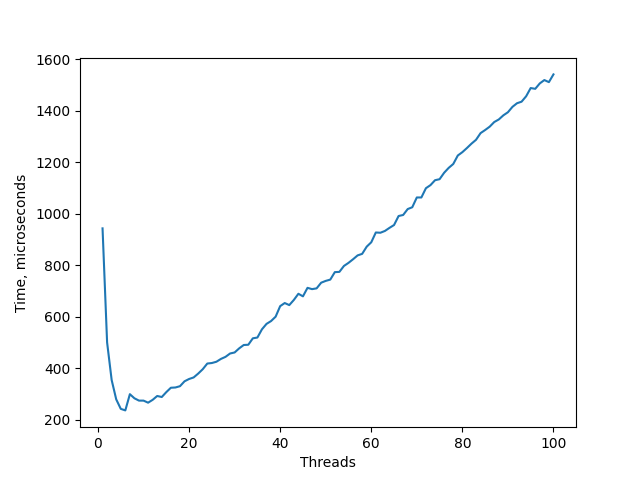
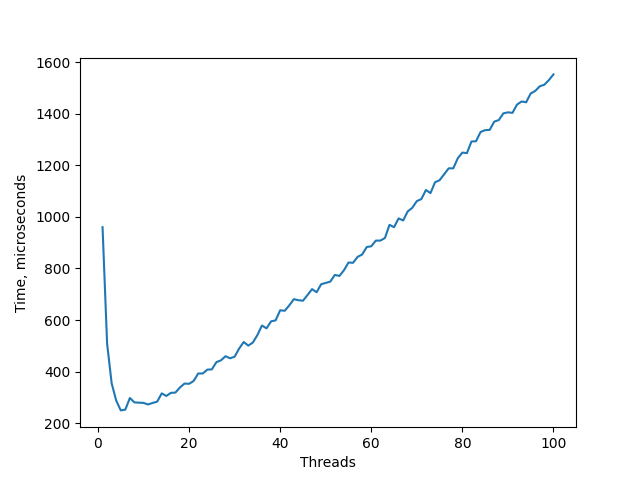
hw_5: task_1: fix

diff --git a/mod_parallel_accumulate.cpp b/mod_parallel_accumulate.cpp
@@ -14,10 +14,10 @@ void accumulate_block(Iterator first, Iterator last, T init, T &result) {
 }
 
 template<typename Iterator, typename T>
-T parallel_accumulate(Iterator first, Iterator last, T init, unsigned int num_workers=thread::hardware_concurrency()){ //
+T parallel_accumulate(Iterator first, Iterator last, T init, unsigned int num_workers=thread::hardware_concurrency()){
     // 1. Проверили длину
     auto length = distance(first, last);
-    if (length < 4 * thread::hardware_concurrency()) {
+    if (length < 4 * num_workers) {
         return accumulate(first, last, init);
     }
     // 2. Длина достаточна, распараллеливаем
